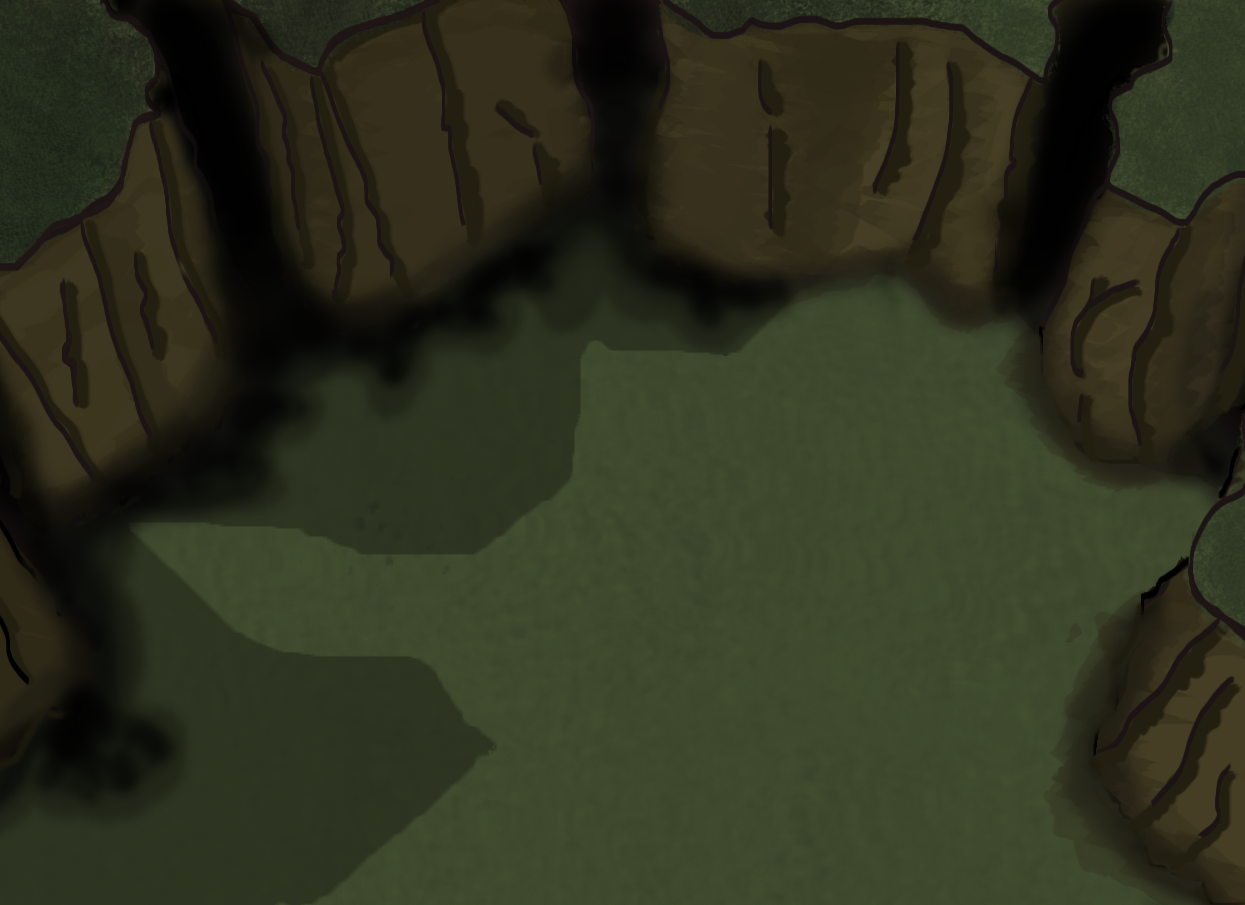
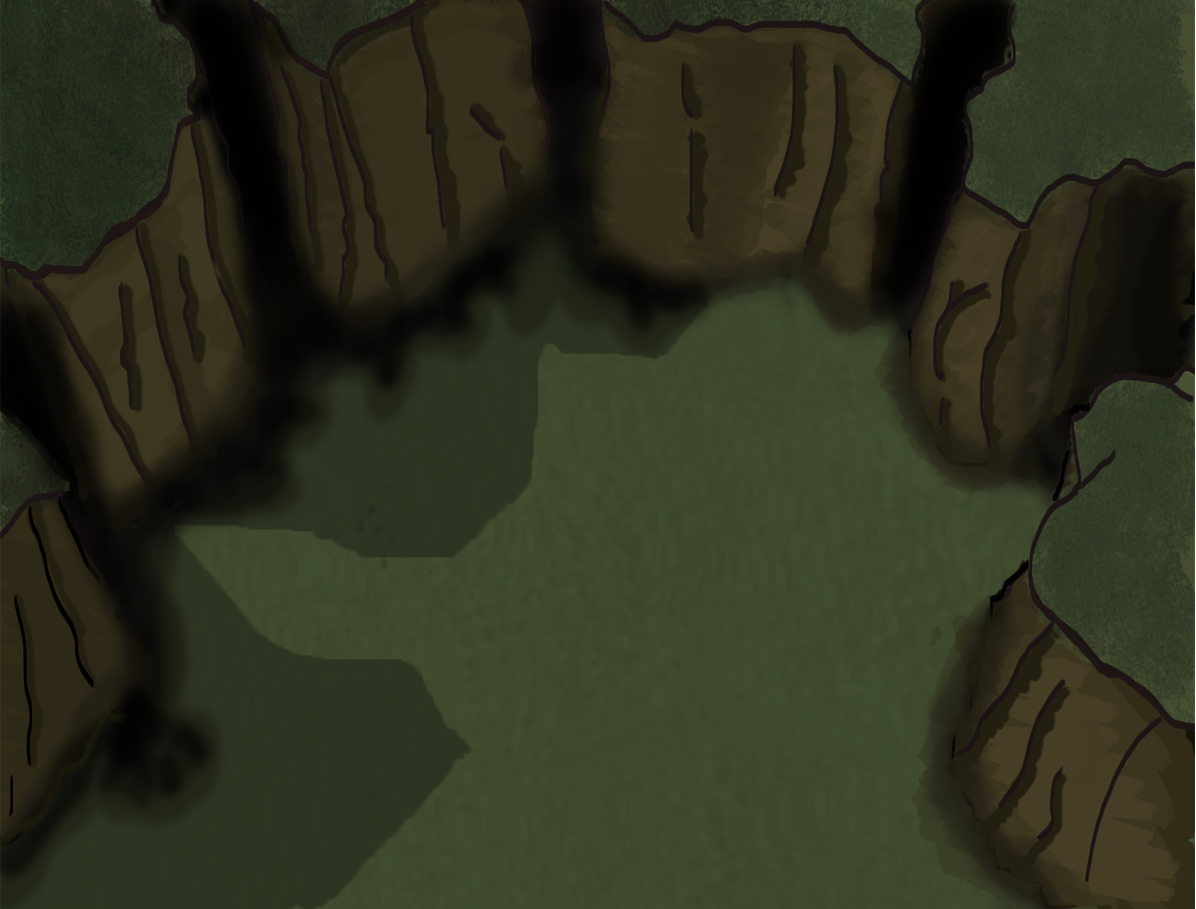
Resized arena.

diff --git a/less/main.less b/less/main.less
@@ -1,6 +1,6 @@
 @default_height: 595px;
 @default_width: 1180px;
-@img_height: 340px;
+@img_height: 590px;
 @img_width: 590px;
 @top_padding: ((@default_height - @img_height) / 2);
 
@@ -11,16 +11,7 @@
 	display: inline-block;
 	text-align: center;
 	
-	.splash{
-	   position: absolute;
-	   width: 1180px;
-	   height: @default_height;
-	   background-image: url("img/splash.jpg");
-	   background-repeat: no-repeat;
-	   background-size: 100% 100%;
-	   border: 5px double #000;
-	   display: none;
-	}
+	
 	
 	#spawner
 	{
@@ -36,14 +27,19 @@
 	{
 		width: @img_width;
 		height: @img_height;
+		background-image: url("img/arena3.png");
+	    background-repeat: no-repeat;
+	    background-size: 100% 95%;
 		float: left;
 		margin: 0 auto;
 		margin-top: @top_padding;
 		padding: 0 0 0 0;
 		display: inline-block;
+		
 
 		#health
 		{
+			
 			-webkit-apperance: none;
 			apperance: none;
 			background: red;
@@ -63,6 +59,17 @@
 		padding: 0 0 0 0;
 		margin: 0 auto;
 		display: inline-block;
+	}
+	
+	.splash{
+	   position: absolute;
+	   width: 1180px;
+	   height: @default_height;
+	   background-image: url("img/splash.jpg");
+	   background-repeat: no-repeat;
+	   background-size: 100% 100%;
+	   border: 5px double #000;
+	   display: none;
 	}
 }
 

diff --git a/main.css b/main.css
@@ -4,16 +4,6 @@
   display: inline-block;
   text-align: center;
 }
-#toplevel .splash {
-  position: absolute;
-  width: 1180px;
-  height: 595px;
-  background-image: url("img/splash.jpg");
-  background-repeat: no-repeat;
-  background-size: 100% 100%;
-  border: 5px double #000;
-  display: none;
-}
 #toplevel #spawner {
   width: 295px;
   height: 595px;
@@ -24,10 +14,13 @@
 }
 #toplevel #arena {
   width: 590px;
-  height: 340px;
+  height: 590px;
+  background-image: url("img/arena3.png");
+  background-repeat: no-repeat;
+  background-size: 100% 95%;
   float: left;
   margin: 0 auto;
-  margin-top: 127.5px;
+  margin-top: 2.5px;
   padding: 0 0 0 0;
   display: inline-block;
 }
@@ -46,6 +39,16 @@
   padding: 0 0 0 0;
   margin: 0 auto;
   display: inline-block;
+}
+#toplevel .splash {
+  position: absolute;
+  width: 1180px;
+  height: 595px;
+  background-image: url("img/splash.jpg");
+  background-repeat: no-repeat;
+  background-size: 100% 100%;
+  border: 5px double #000;
+  display: none;
 }
 progress.health::-webkit-progress-value {
   background: red;

diff --git a/index.html b/index.html
@@ -1686,14 +1686,13 @@
 	</g>
 </svg>
 				</div>
-					<div id="arena" >
+				<div id="arena" >
 						<caption>Hero Health: </caption>
 						<progress id="health" value="90" max="100" background="#0063a6">
 
 						</progress>
 					
 						<svg version="1.1" id="svgArea" xmlns="http://www.w3.org/2000/svg" xmlns:xlink="http://www.w3.org/1999/xlink" x="0px" y="0px" width="590px" height="340px" viewBox="0 0 590 340" enable-background="new 0 0 590 340"xml:space="preserve">
-							<image overflow="visible" width="1571" height="909" xlink:href="./img/arena3.png"  transform="matrix(0.3756 0 0 0.374 0 0)">
 						</image>
 						</svg>
 					</div>
